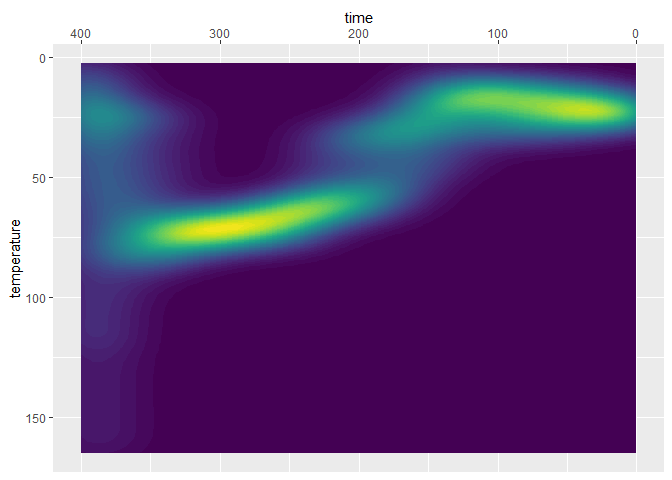
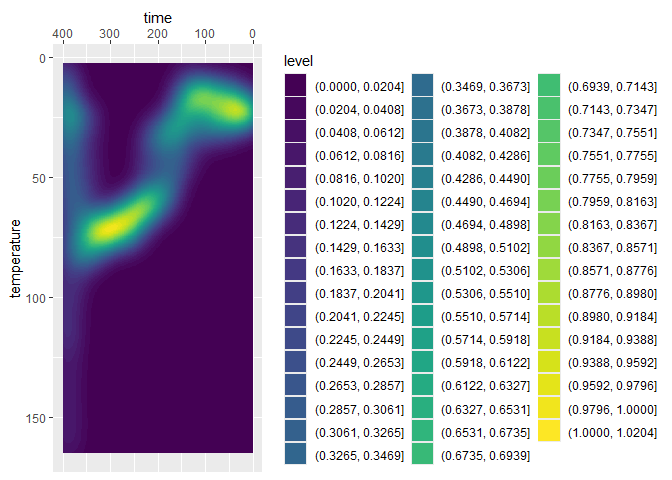
bug fixes

diff --git a/README.md b/README.md
@@ -66,7 +66,7 @@ tT_paths$paths |>
 The path density can be visualized using `plot_path_density_filled()`:
 
 ``` r
-plot_path_density_filled(tT_paths, show.legend = FALSE) +
+plot_path_density_filled(tT_paths) +
   scale_x_reverse(position = "top") +
   scale_y_reverse()
 ```
@@ -96,7 +96,6 @@ paths_clustered |>
       x = time,
       y = temperature,
       color = cluster,
-      alpha = Comp_GOF,
       group = segment
     )
   ) +
